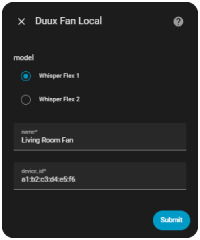
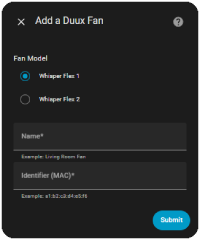
feat translations EN FR ES

diff --git a/custom_components/duux_fan_local/config_flow.py b/custom_components/duux_fan_local/config_flow.py
@@ -84,8 +84,8 @@ class DuuxFanConfigFlow(config_entries.ConfigFlow, domain=DOMAIN):
         data_schema = vol.Schema(
             {
                 vol.Required(CONF_MODEL): vol.In(MODELS),
-                vol.Required(CONF_NAME, default="Living Room Fan"): str,
-                vol.Required(CONF_DEVICE_ID, default="a1:b2:c3:d4:e5:f6"): str,
+                vol.Required(CONF_NAME): str,
+                vol.Required(CONF_DEVICE_ID): str,
             }
         )
 
